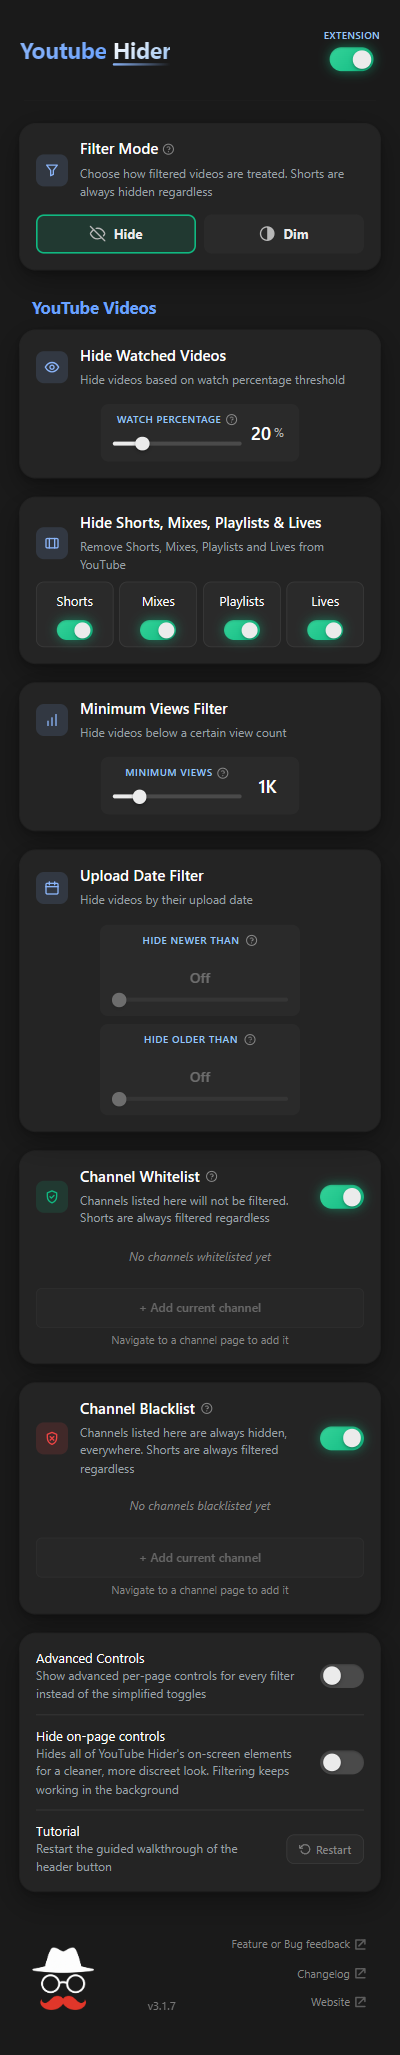
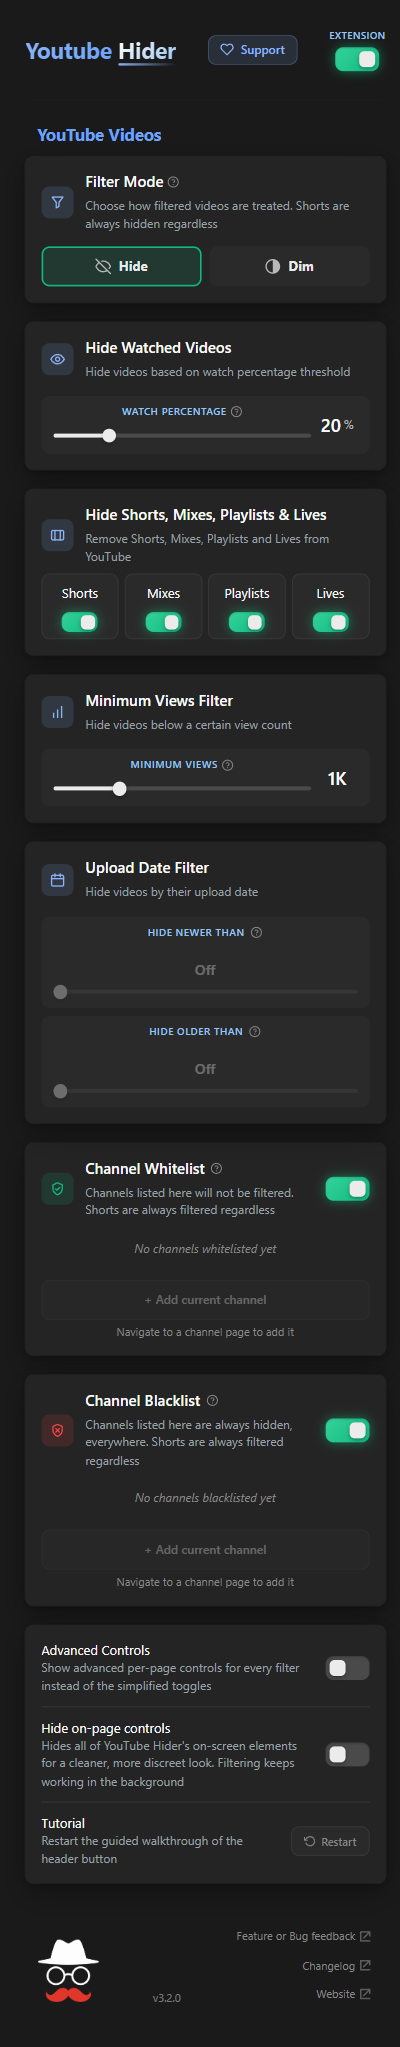
fix: update secondary background color and unify border radius for consistency

diff --git a/docs/assets/css/welcome.css b/docs/assets/css/welcome.css
@@ -1,6 +1,6 @@
 :root {
     --bg-primary: #1a1a1a;
-    --bg-secondary: #222222;
+    --bg-secondary: #242424;
     --bg-tertiary: #2a2a2a;
     --bg-quaternary: #313131;
     --text-primary: #ebebeb;
@@ -11,6 +11,7 @@
     --accent-green: #10b981;
     --accent-blue: #8ab4f8;
     --accent-blue-dark: #6ba3ff;
+    --radius-box: 8px;
 }
 
 * {
@@ -100,7 +101,7 @@ body {
 .feature-card {
     background-color: var(--bg-secondary);
     border: 1px solid var(--border-color);
-    border-radius: 12px;
+    border-radius: var(--radius-box);
     padding: 24px 20px;
     transition: border-color 0.2s ease, transform 0.2s ease;
 }
@@ -146,7 +147,7 @@ body {
     align-items: flex-start;
     background-color: var(--bg-secondary);
     border: 1px solid var(--border-color);
-    border-radius: 12px;
+    border-radius: var(--radius-box);
     padding: 20px;
     transition: border-color 0.2s ease;
 }
@@ -160,7 +161,7 @@ body {
     width: 36px;
     height: 36px;
     background: linear-gradient(135deg, var(--accent-blue) 0%, var(--accent-blue-dark) 100%);
-    border-radius: 50%;
+    border-radius: var(--radius-box);
     display: flex;
     align-items: center;
     justify-content: center;
@@ -232,7 +233,7 @@ body {
 .easymode-card {
     background: linear-gradient(135deg, rgba(16, 185, 129, 0.08) 0%, rgba(138, 180, 248, 0.08) 100%);
     border: 1px solid rgba(16, 185, 129, 0.3);
-    border-radius: 12px;
+    border-radius: var(--radius-box);
     padding: 24px;
     text-align: center;
     position: relative;
@@ -246,7 +247,7 @@ body {
     font-weight: 700;
     letter-spacing: 1px;
     padding: 3px 10px;
-    border-radius: 20px;
+    border-radius: var(--radius-box);
     margin-bottom: 12px;
 }
 
@@ -283,7 +284,7 @@ body {
     font-weight: 700;
     padding: 14px 48px;
     border: none;
-    border-radius: 50px;
+    border-radius: var(--radius-box);
     cursor: pointer;
     transition: transform 0.2s ease, box-shadow 0.2s ease;
     letter-spacing: 0.2px;
